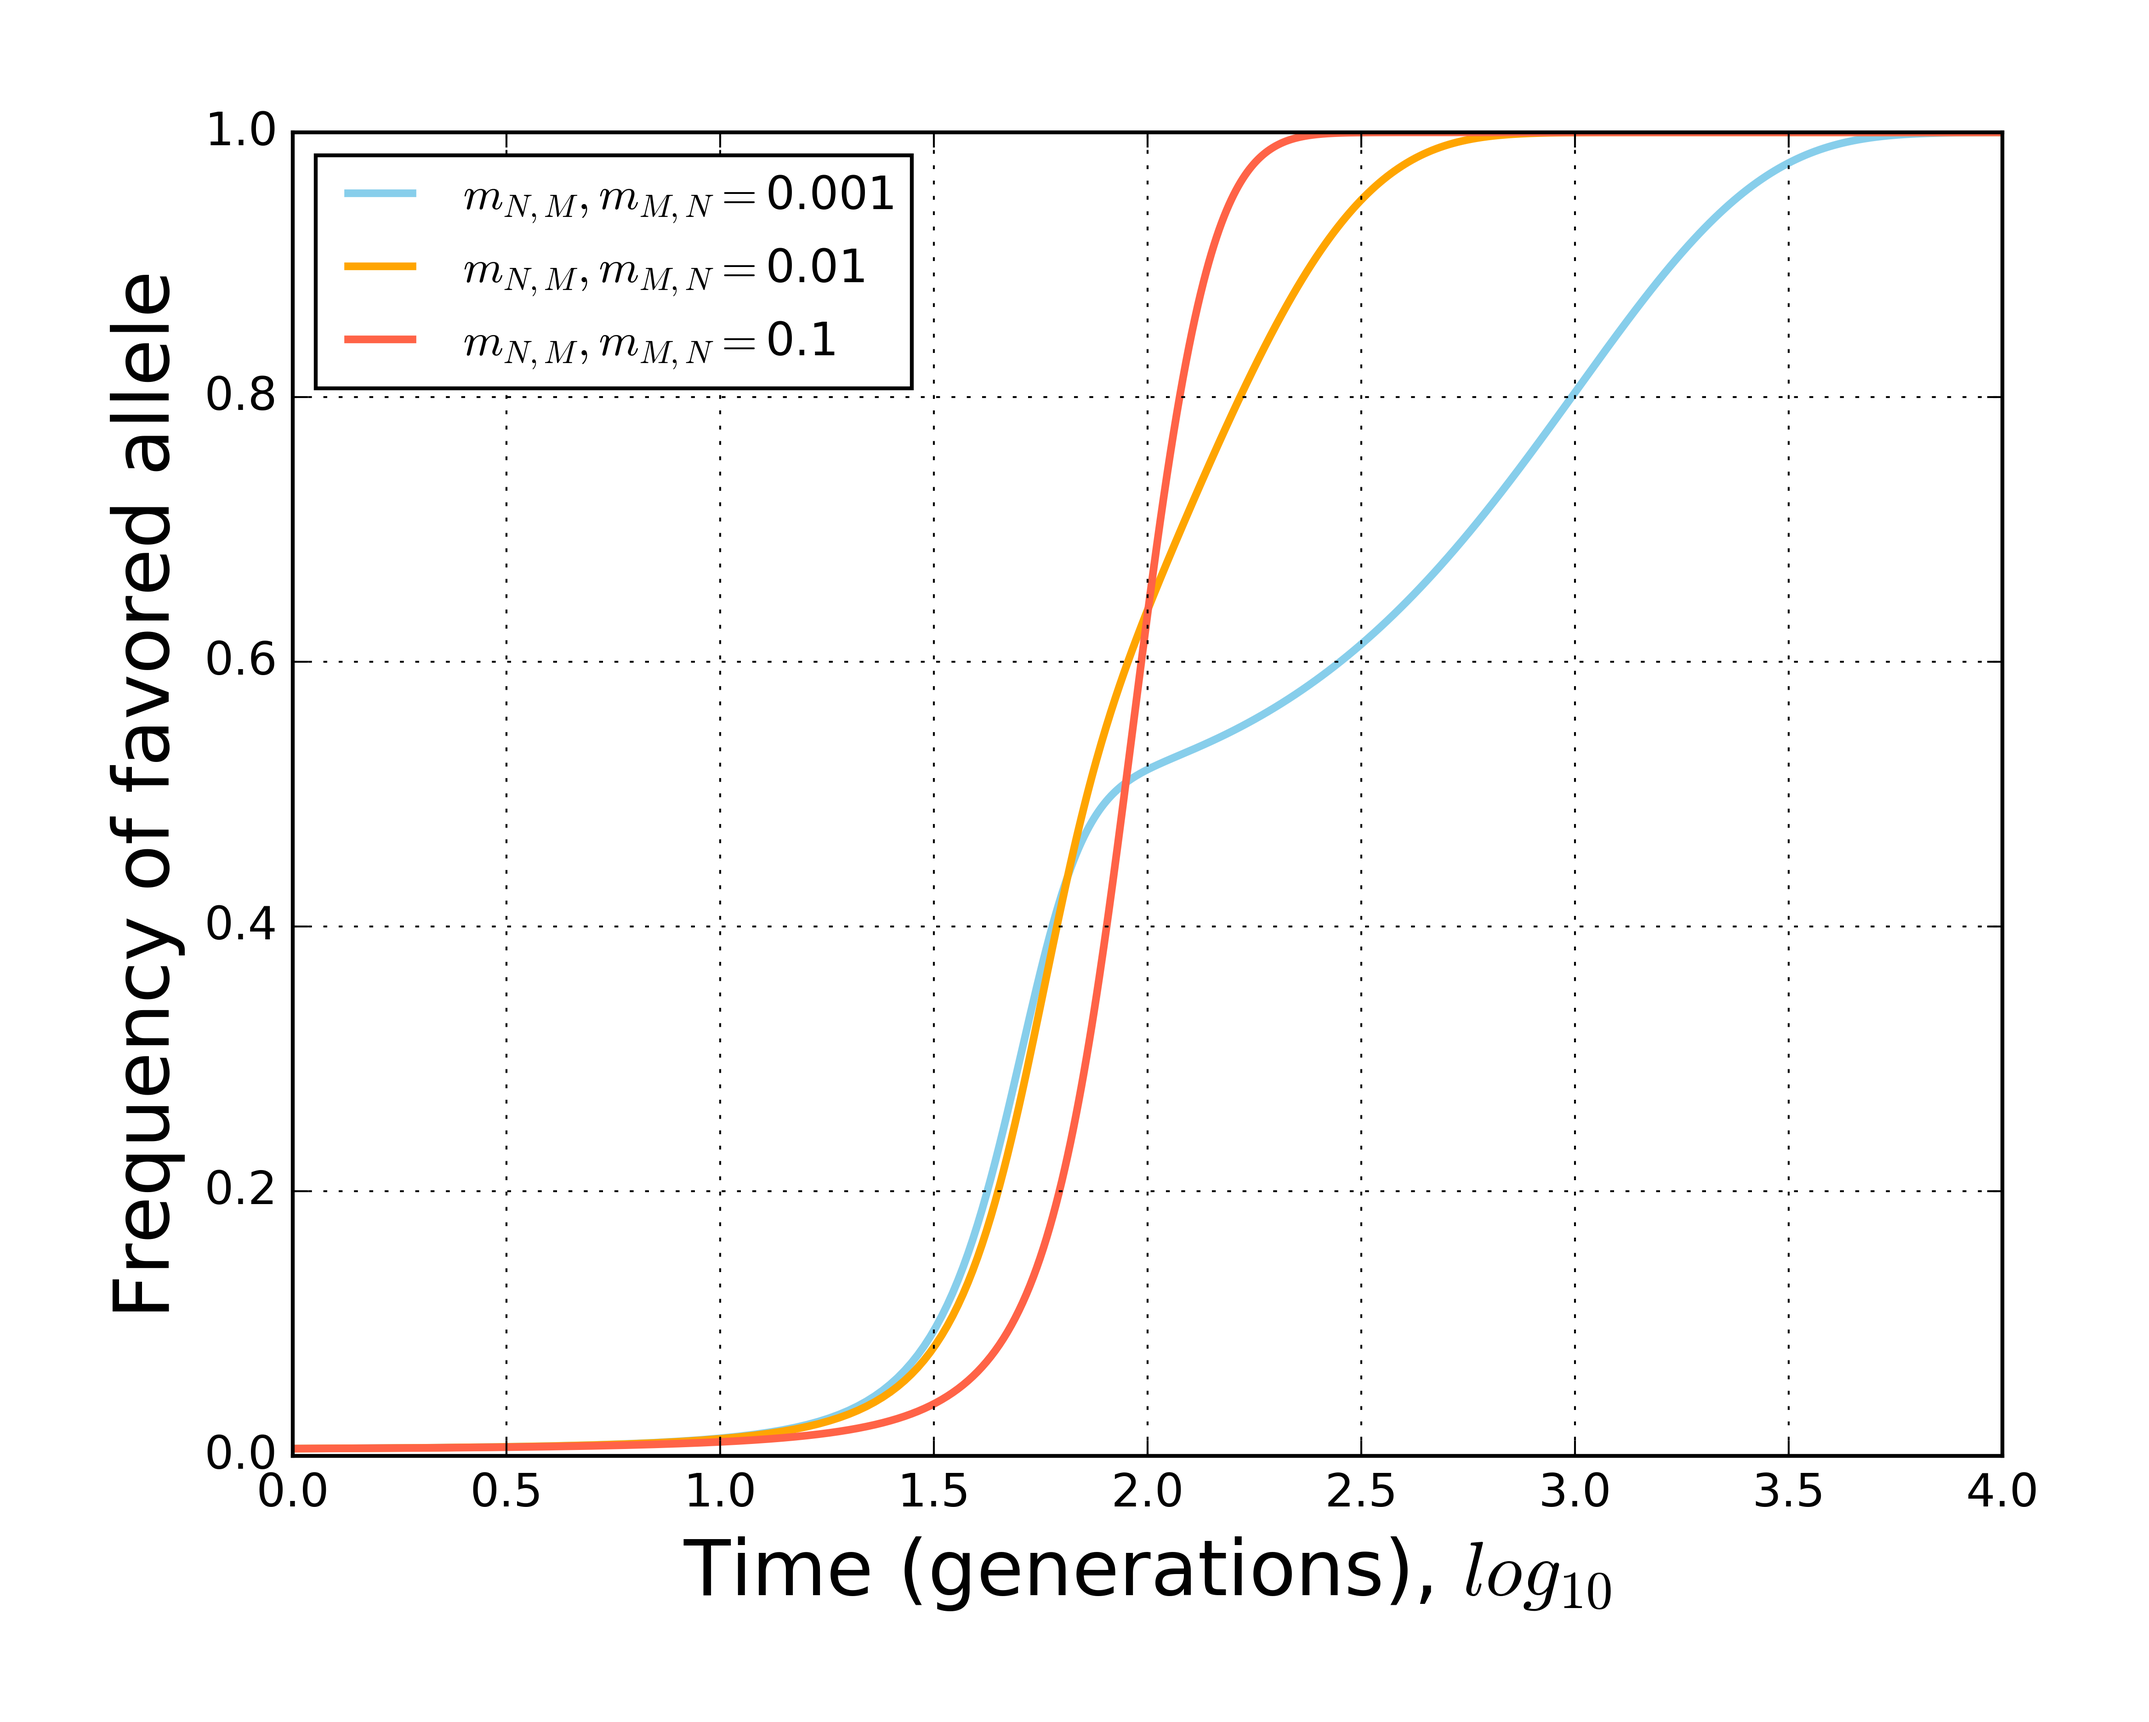
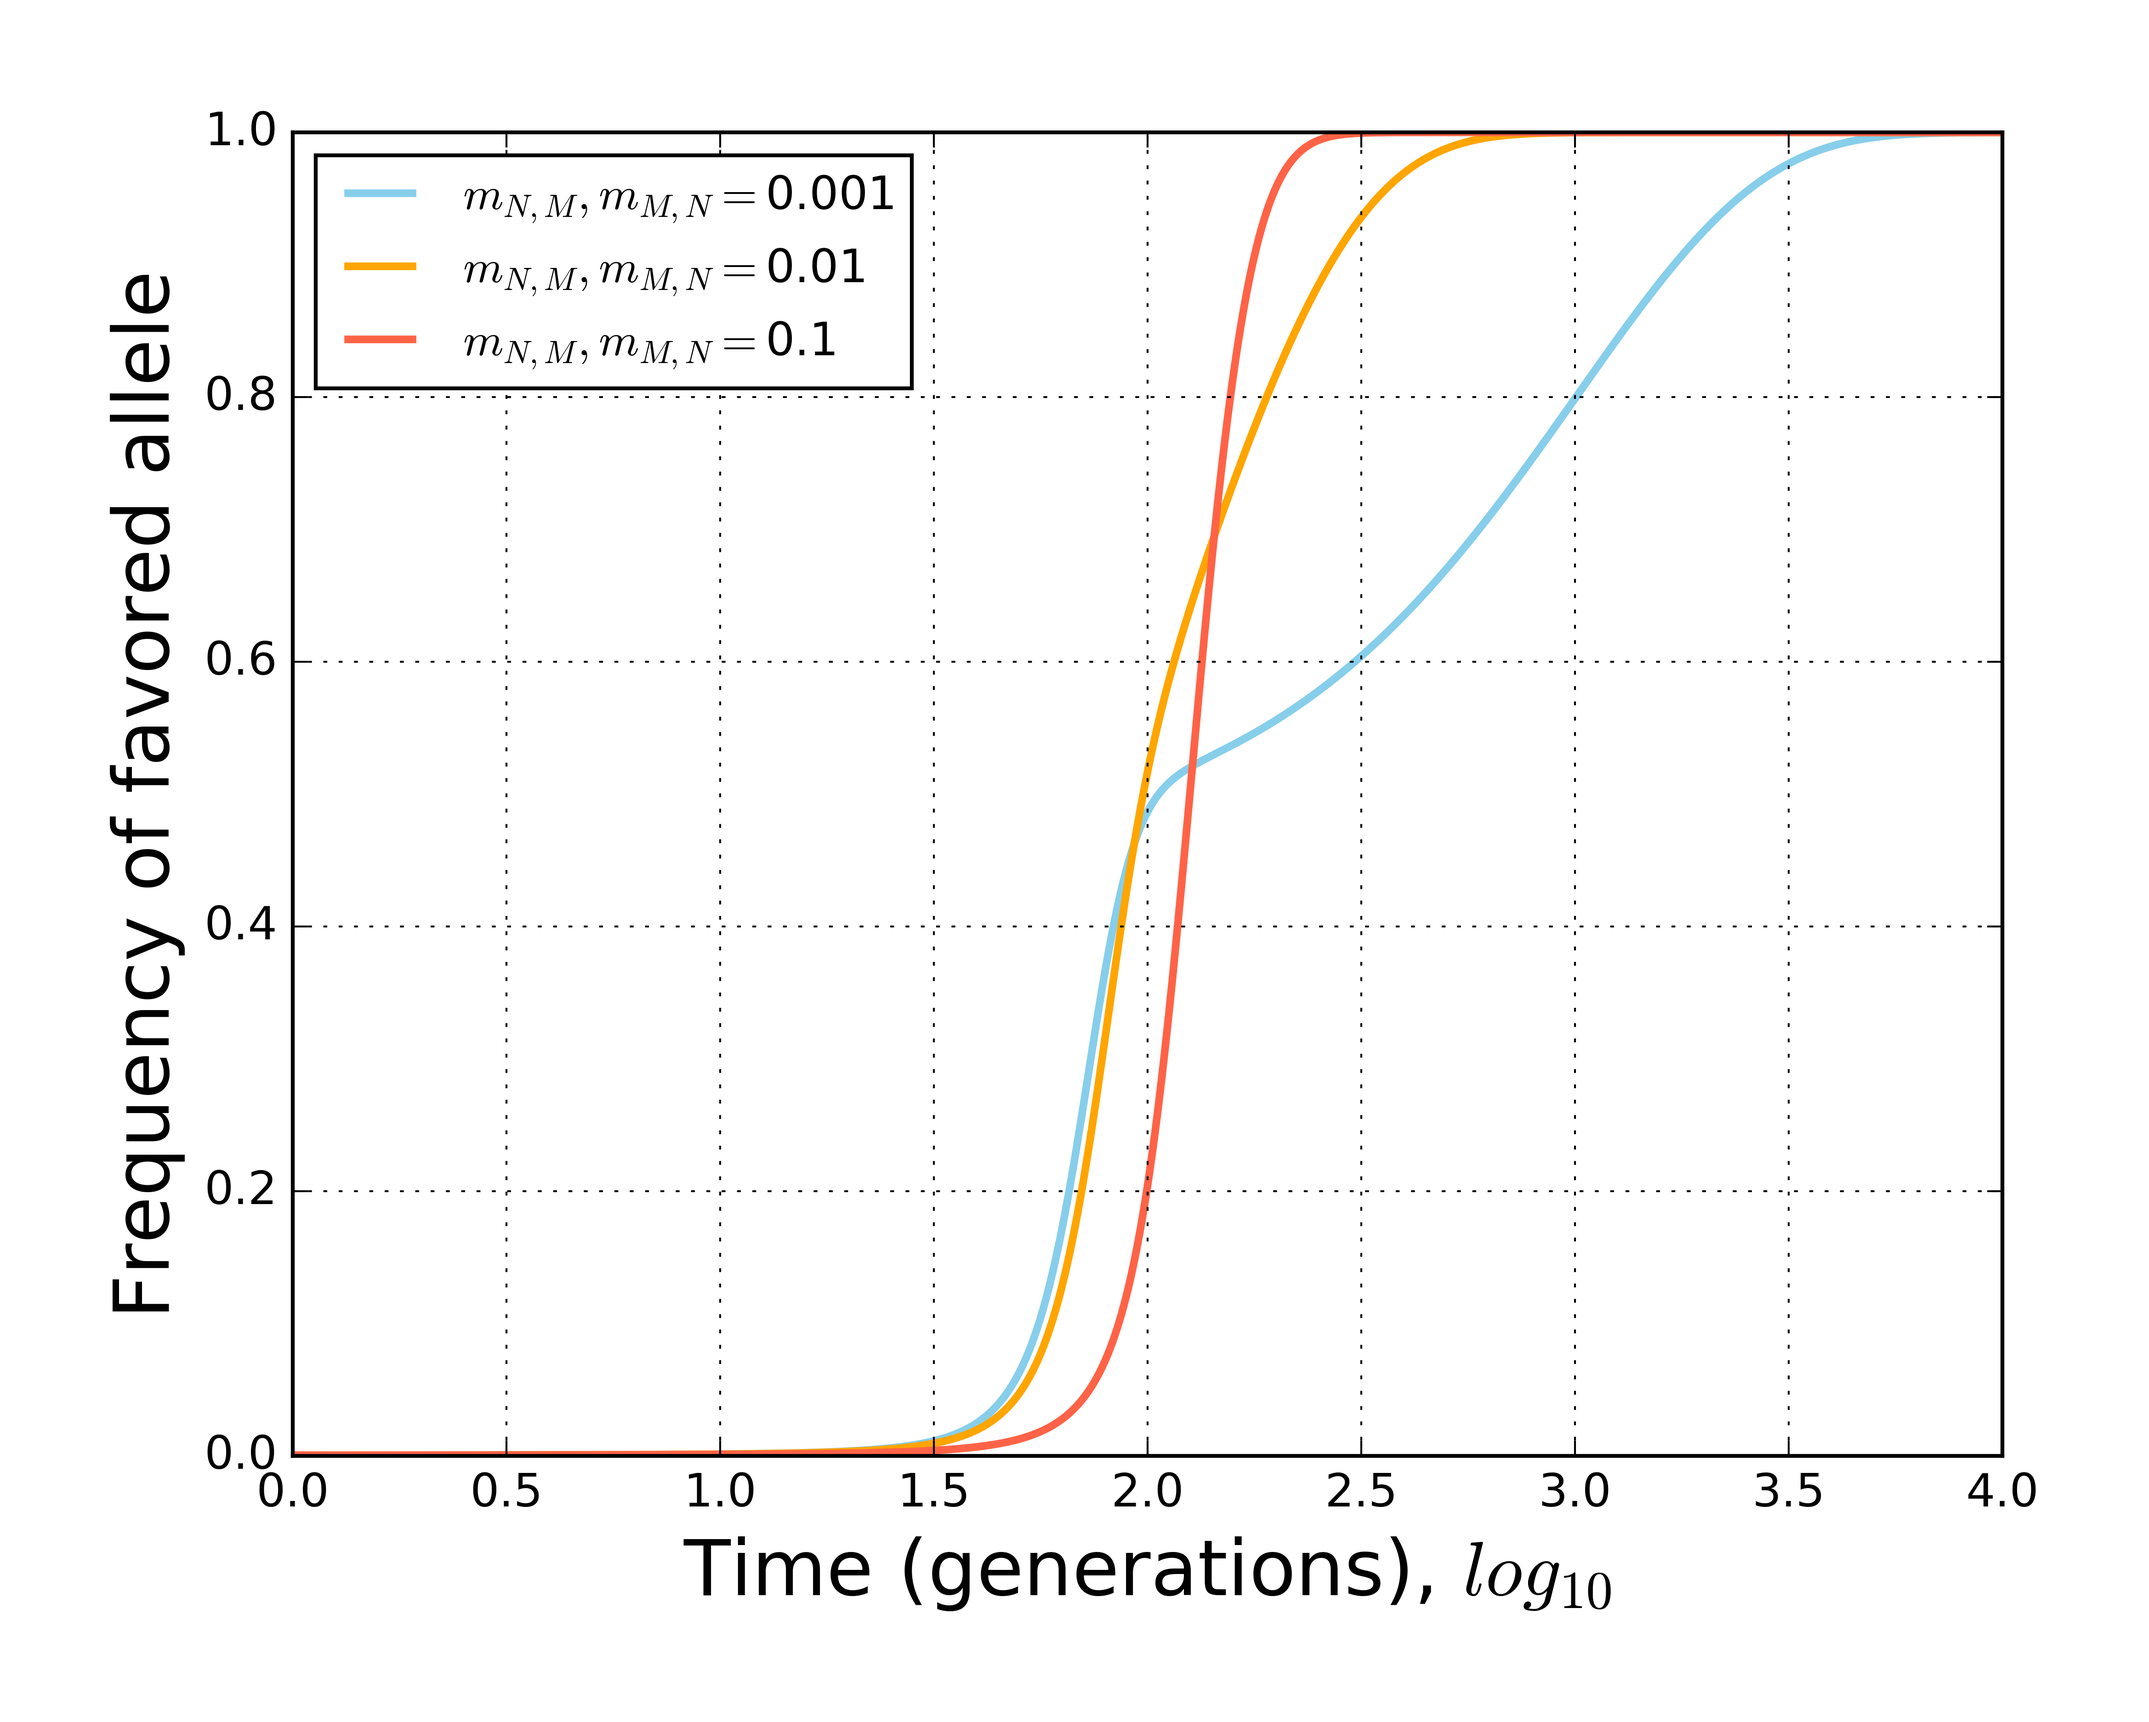
initial math

diff --git a/Python/solveAnalytic.py b/Python/solveAnalytic.py
@@ -1,7 +1,7 @@
 from __future__ import division
 import numpy as np
 import pandas as pd
-import os
+import os, itertools
 from scipy import integrate
 import  matplotlib.pyplot as plt
 
@@ -27,13 +27,11 @@ class modelMatrix():
         return np.array([[ -self.d + self.s - (2 * P[0]) * self.s , self.r  ],
                       [ self.d,  -self.r ] ])
 
-
-
-def plotDynamics():
+def plotDynamics(N = 1000):
     fig = plt.figure()
     s = 0.1
     t = np.linspace(0, 10000,  10000)              # time
-    P0 = np.array([0.01, 0])
+    P0 = np.array([1/N, 0])
     rs_and_ds = [0.001, 0.01, 0.1]
     colors = ['#87CEEB', '#FFA500', '#FF6347']
     for i, r_and_d in enumerate(rs_and_ds):
@@ -42,7 +40,6 @@ def plotDynamics():
         #infodict['message']                     # >>> 'Integration successful.'
         active, dormant = P.T
         pop_mean = (active + dormant) / 2
-
         plt.plot(np.log10(t), pop_mean, lw = 2, label= r'$m_{N,M}, m_{M,N} = $' + str(r_and_d), color = colors[i])
     plt.grid()
     plt.ylim(0,1)
@@ -54,5 +51,142 @@ def plotDynamics():
     plt.savefig(mydir + 'figs/testDyn.png', bbox_inches = "tight", \
         pad_inches = 0.4, dpi = 600)
 
+def plotNs(N = 1000):
+    fig = plt.figure()
+    s = 0.1
+    t = np.linspace(0, 100000,  100000)
+    #N = np.logspace(2, 10000,  10000)
+    P0 = np.array([1/N, 0])
+    Cs = np.logspace(0, 4, num = 100, base=10.0)
+    T_fix_A = []
+    T_fix_D = []
+    T_fix_mean = []
+    for C in Cs:
+        P, infodict = integrate.odeint(modelMatrix(s,1/C,1/C).dP_dt, \
+            P0, t, full_output=True)
+        #infodict['message']                     # >>> 'Integration successful.'
+        active, dormant = P.T
+        #active = np.ndarray.tolist(active)
+        #dormant = np.ndarray.tolist(dormant)
+        #print active[active >= float(1)]
+        T_fix_A_m = np.argmax(active>=float(0.997))
+        T_fix_D_m = np.argmax(dormant>=float(0.997))
+        T_fix_A.append(T_fix_A_m)
+        T_fix_D.append(T_fix_D_m)
+        T_fix_mean.append((T_fix_A_m + T_fix_D_m) /2 )
+
+    pops = ['N', 'M']
+    fig, ax = plt.subplots()
+    colors = ['#87CEEB',  '#FF6347']
+    pop_type = {'N': 'Active', 'M': 'Dormant'}
+    for i, pop in enumerate(pops):
+        if pop == 'N':
+            y = T_fix_A
+        else:
+            y = T_fix_D
+        plt.plot(np.log10(Cs), y, lw = 2, label= pop_type[pop], color = colors[i])
+
+    plt.plot(np.log10(Cs), T_fix_mean, lw = 2, color = 'g')
+
+    ax.set_xlabel('Average time in seed bank, ' + r'$log_{10}$', fontsize=20)
+    plt.grid()
+    plt.legend(bbox_to_anchor=(0., 1.02, 1., .102), loc=3, \
+           ncol=2, mode="expand", borderaxespad=0.)
+    plt.axvline(x = np.log10(1000), linewidth=2, color='darkgrey',ls='--')
+    ax.set_ylim([0,35000])
+
+    ax.set_ylabel( r'$T_{fix}$', fontsize=20)
+    fig.savefig(mydir + 'figs/Tfix_N_M_model.png', \
+        bbox_inches = "tight", pad_inches = 0.4, dpi = 600)
+    plt.close()
+
+def plot_sim_v_model(N=1000):
+    fig, ax = plt.subplots()
+    colors = ['#87CEEB', '#FFA500', '#FF6347']
+    s = 0.1
+    t = np.linspace(0, 10000,  10000)
+    cs = [1, 10, 100]
+    P0 = np.array([1/N, 0])
+    for x, c in enumerate(cs):
+        P, infodict = integrate.odeint(modelMatrix(s,1/c,1/c).dP_dt, \
+            P0, t, full_output=True)
+        active, dormant = P.T
+        pop_mean = (active + dormant) / 2
+        sim = pd.read_csv(mydir + 'data/sweeps_dorm/sweep_N_1000_M_1000_c_' + \
+            str(c) + '_s_0.1.txt', header = None)
+        g = []
+        p = []
+        sim = sim.fillna(1.0)
+        for index, row in sim.iterrows():
+            g.extend(row[~row.isnull()].index.values)
+            p.append(row[~row.isnull()].values)
+
+        p_plot_mean = []
+        p_plot_std = []
+        for i in itertools.izip_longest(*p):
+            i = np.asarray(i)
+            i = i[i != np.array(None)]
+            p_plot_mean.append( np.mean(i))
+            p_plot_std.append( np.std(i))
+        p_plot_mean = np.asarray(p_plot_mean)
+        p_plot_std = np.asarray(p_plot_std)
+        print c, len(pop_mean), len(p_plot_std)
+        pop_mean = pop_mean[:len(p_plot_mean)]
+        print c, len(pop_mean), len(p_plot_std)
+        ax.plot(pop_mean, p_plot_mean, lw = 2, color = colors[x], \
+            label='Time in seed bank = ' + str(int(1 / (c/1000))))
+        ax.fill_between(pop_mean, p_plot_mean+p_plot_std, p_plot_mean-p_plot_std, facecolor=colors[x], alpha=0.5)
+    plt.grid()
+    plt.plot([0, 1],[0, 1], linewidth=2, color='darkgrey',ls='--')
+    ax.set_xlim([0,1])
+    ax.set_ylim([0,1])
+    ax.set_xlabel('Allele frequency from logistic model', fontsize=20)
+    ax.set_ylabel('Allele frequency from simulation', fontsize=20)
+    ax.legend(loc='upper left', fontsize = 12)
+    fig.savefig(mydir + 'figs/sim_vs_model.png', \
+        bbox_inches = "tight", pad_inches = 0.4, dpi = 600)
+    plt.close()
+
+
+
+def plot_sim_v_model_active(N=1000):
+    fig, ax = plt.subplots()
+    s = 0.1
+    t = np.linspace(0, 100000,  100000)
+    c=10.235310219
+    P0 = np.array([1/N, 0])
+    P, infodict = integrate.odeint(modelMatrix(s,1/c,1/c).dP_dt, \
+        P0, t, full_output=True)
+    active, dormant = P.T
+    N_sim = pd.read_csv(mydir + 'data/sweeps_mac/N_sweep_N_1000_M_10000_c_10.235310219_s_0.1.txt', header = None)
+    M_sim = pd.read_csv(mydir + 'data/sweeps_mac/M_sweep_N_1000_M_10000_c_10.235310219_s_0.1.txt', header = None)
+    g_N = []
+    p_N = []
+    g_M = []
+    p_M = []
+
+    N_sim = N_sim.fillna(1.0)
+    for index, row in N_sim.iterrows():
+        g_N.extend(row[~row.isnull()].index.values)
+        p_N.append(row[~row.isnull()].values)
+
+    p_N_plot_mean = []
+    p_N_plot_std = []
+    for i in itertools.izip_longest(*p_N):
+        i = np.asarray(i)
+        i = i[i != np.array(None)]
+        p_N_plot_mean.append( np.mean(i))
+        p_N_plot_std.append( np.std(i))
+    p_N_plot_mean = np.asarray(p_N_plot_mean)
+    p_N_plot_std = np.asarray(p_N_plot_std)
+    active = active[:len(p_N_plot_mean)]
+    ax.plot(active, p_N_plot_mean, lw = 2, color = '#87CEEB')
+    ax.fill_between(active, p_N_plot_mean+p_N_plot_std, p_N_plot_mean-p_N_plot_std, facecolor='#87CEEB', alpha=0.5)
+    plt.grid()
+    fig.savefig(mydir + 'figs/sim_vs_model_active.png', \
+        bbox_inches = "tight", pad_inches = 0.4, dpi = 600)
+    plt.close()
 
 plotDynamics()
+#plot_sim_v_model()
+#plot_sim_v_model()

diff --git a/Python/generateFigs.py b/Python/generateFigs.py
@@ -1,4 +1,4 @@
-from __future__ import division
+ from __future__ import division
 import pandas as pd
 import  matplotlib.pyplot as plt
 import os, argparse, math, itertools
@@ -74,7 +74,7 @@ def sweepDormFig(N = 1000, M = 1000, s = 0.1):
 
         if max(g) > maxg:
             maxg = max(g)
-    ax.set_xlim([0, np.log10(maxg)])
+    ax.set_xlim([0, maxg])
     ax.set_ylim([0, 1])
     plt.grid()
     ax.legend(loc='upper left', fontsize = 12)
@@ -174,6 +174,8 @@ def TfixFigActDorm(M = 10000):
         bbox_inches = "tight", pad_inches = 0.4, dpi = 600)
     plt.close()
 
-TfixFigActDorm()
-sweepDormFig()
-TfixFig()
+#def Fig4():
+
+#TfixFigActDorm()
+#sweepDormFig()
+#TfixFig()

diff --git a/Python/sweepSim.py b/Python/sweepSim.py
@@ -93,6 +93,8 @@ def sweepSimDorm(N, M, c, s, reps = 1000):
             M_freqs.append((MB / M) )
             g += 1
             gs.append(g)
+            # if the advantagous allele is lost from the population,
+            # restart the simulation
             if (NB + MB) == 0:
                 break
         if (NB + MB)  != (N + M):
@@ -123,4 +125,4 @@ def multipleSDorm(N, M, s = 0.1, reps = 100):
         print c
         sweepSimDorm(N = N, M = M, c = c,  s = s, reps = reps)
 
-multipleSDorm(N = 1000, M = 10000)
+#multipleSDorm(N = 1000, M = 10000)

diff --git a/Python/cleanData.py b/Python/cleanData.py
@@ -28,7 +28,6 @@ def cleanData(N = 1000, M = 10000, s = 0.1, r = 100):
             times = df_j.apply(lambda x: x[x == 1.0].index[0], axis = 1)
 
             times.columns = str(c)
-            #df[str(c)] = np.asarray(times)
             df[str(c)] = times
 
 
